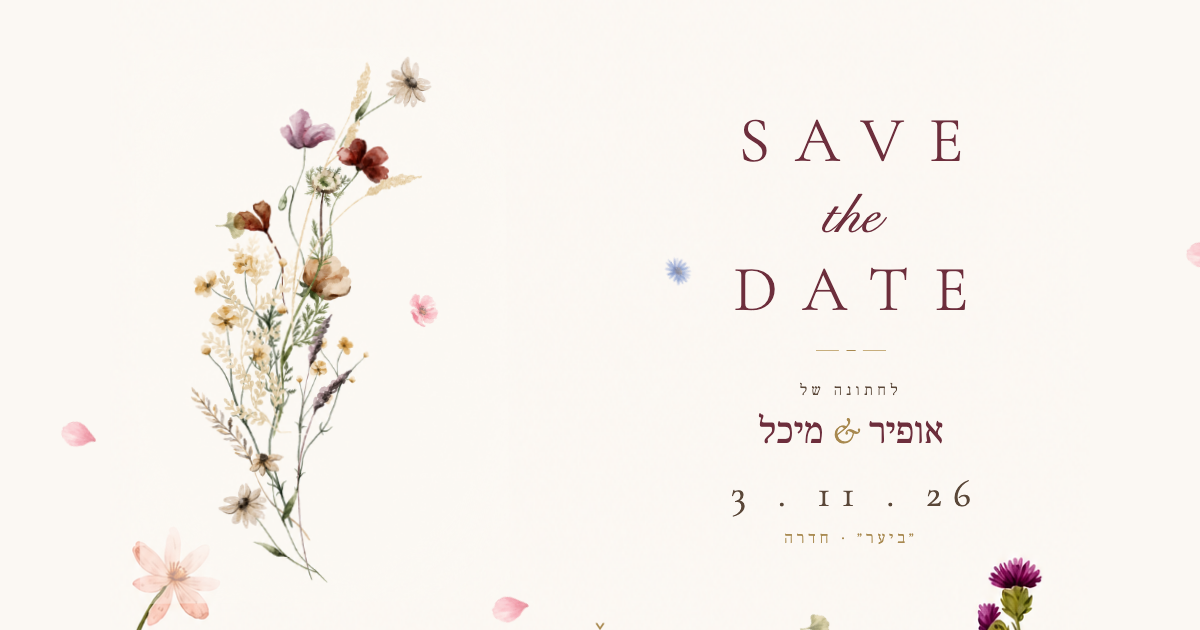
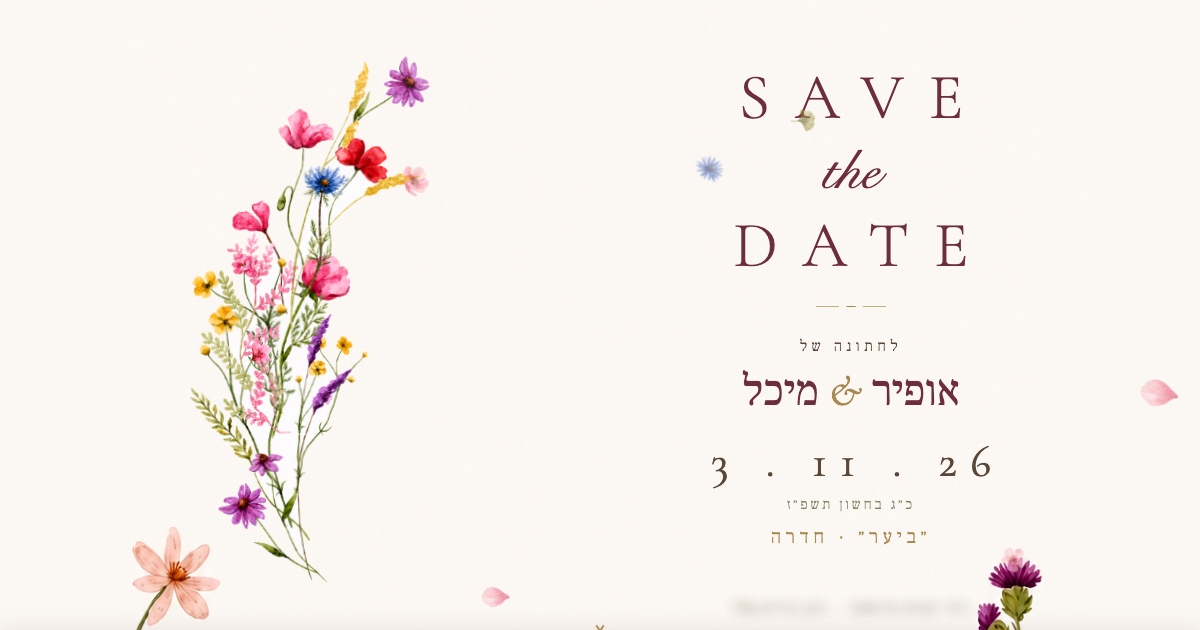
Colorful bouquet matching border palette (transparent bg), parents names, Hebrew date

diff --git a/index.html b/index.html
@@ -106,7 +106,9 @@
     font-size: clamp(2rem, 6.6vw, 2.8rem); letter-spacing: .3em; text-indent: .3em;
     color: var(--ink); margin-top: 1rem; font-weight: 400;
   }
+  .hebdate { margin-top: .35rem; color: var(--sage); font-size: .9rem; letter-spacing: .2em; }
   .venue { margin-top: .7rem; color: var(--gold); font-size: 1.2rem; letter-spacing: .25em; }
+  .parents { margin-top: 1.5rem; color: var(--ink); font-size: .92rem; letter-spacing: .08em; opacity: .85; }
 
   .scroll-hint { position: absolute; bottom: 1.2rem; left: 50%; transform: translateX(-50%);
     color: var(--gold); animation: bounce 2.4s infinite; font-size: 1.2rem; }
@@ -146,6 +148,10 @@
     .names { font-size: 1.6rem; }
     .date { font-size: 1.8rem; letter-spacing: .1em; text-indent: .1em; }
     .venue { font-size: 1.05rem; letter-spacing: .18em; }
+    .hebdate { font-size: .8rem; letter-spacing: .14em; }
+    .parents { font-size: .85rem; letter-spacing: .04em; margin-top: 1.1rem; line-height: 1.7; }
+    .parents .psep { display: none; }
+    .parents span { display: block; }
     .forwedding { font-size: .85rem; letter-spacing: .24em; margin-top: 1.3rem; }
   }
 
@@ -234,7 +240,7 @@
 <!-- HERO -->
 <section class="hero">
   <div class="bouquet-wrap fade-up">
-    <img class="bouquet" src="assets/bouquet.png" alt="">
+    <img class="bouquet" src="assets/bouquet_alpha.png" alt="">
   </div>
   <div class="hero-text">
     <div class="save fade-up">SAVE</div>
@@ -244,7 +250,9 @@
     <div class="forwedding fade-up heb">לחתונה של</div>
     <div class="names fade-up heb">אופיר <span class="amp">&</span> מיכל</div>
     <div class="date fade-up">3 . 11 . 26</div>
+    <div class="hebdate fade-up heb">כ״ג בחשון תשפ״ז</div>
     <div class="venue fade-up heb">״ביער״ · חדרה</div>
+    <div class="parents fade-up heb"><span>רודי וחגית חרותקה</span><span class="psep">&ensp;·&ensp;</span><span>רונן ונירית פלד</span></div>
   </div>
   <div class="scroll-hint">⌄</div>
 </section>